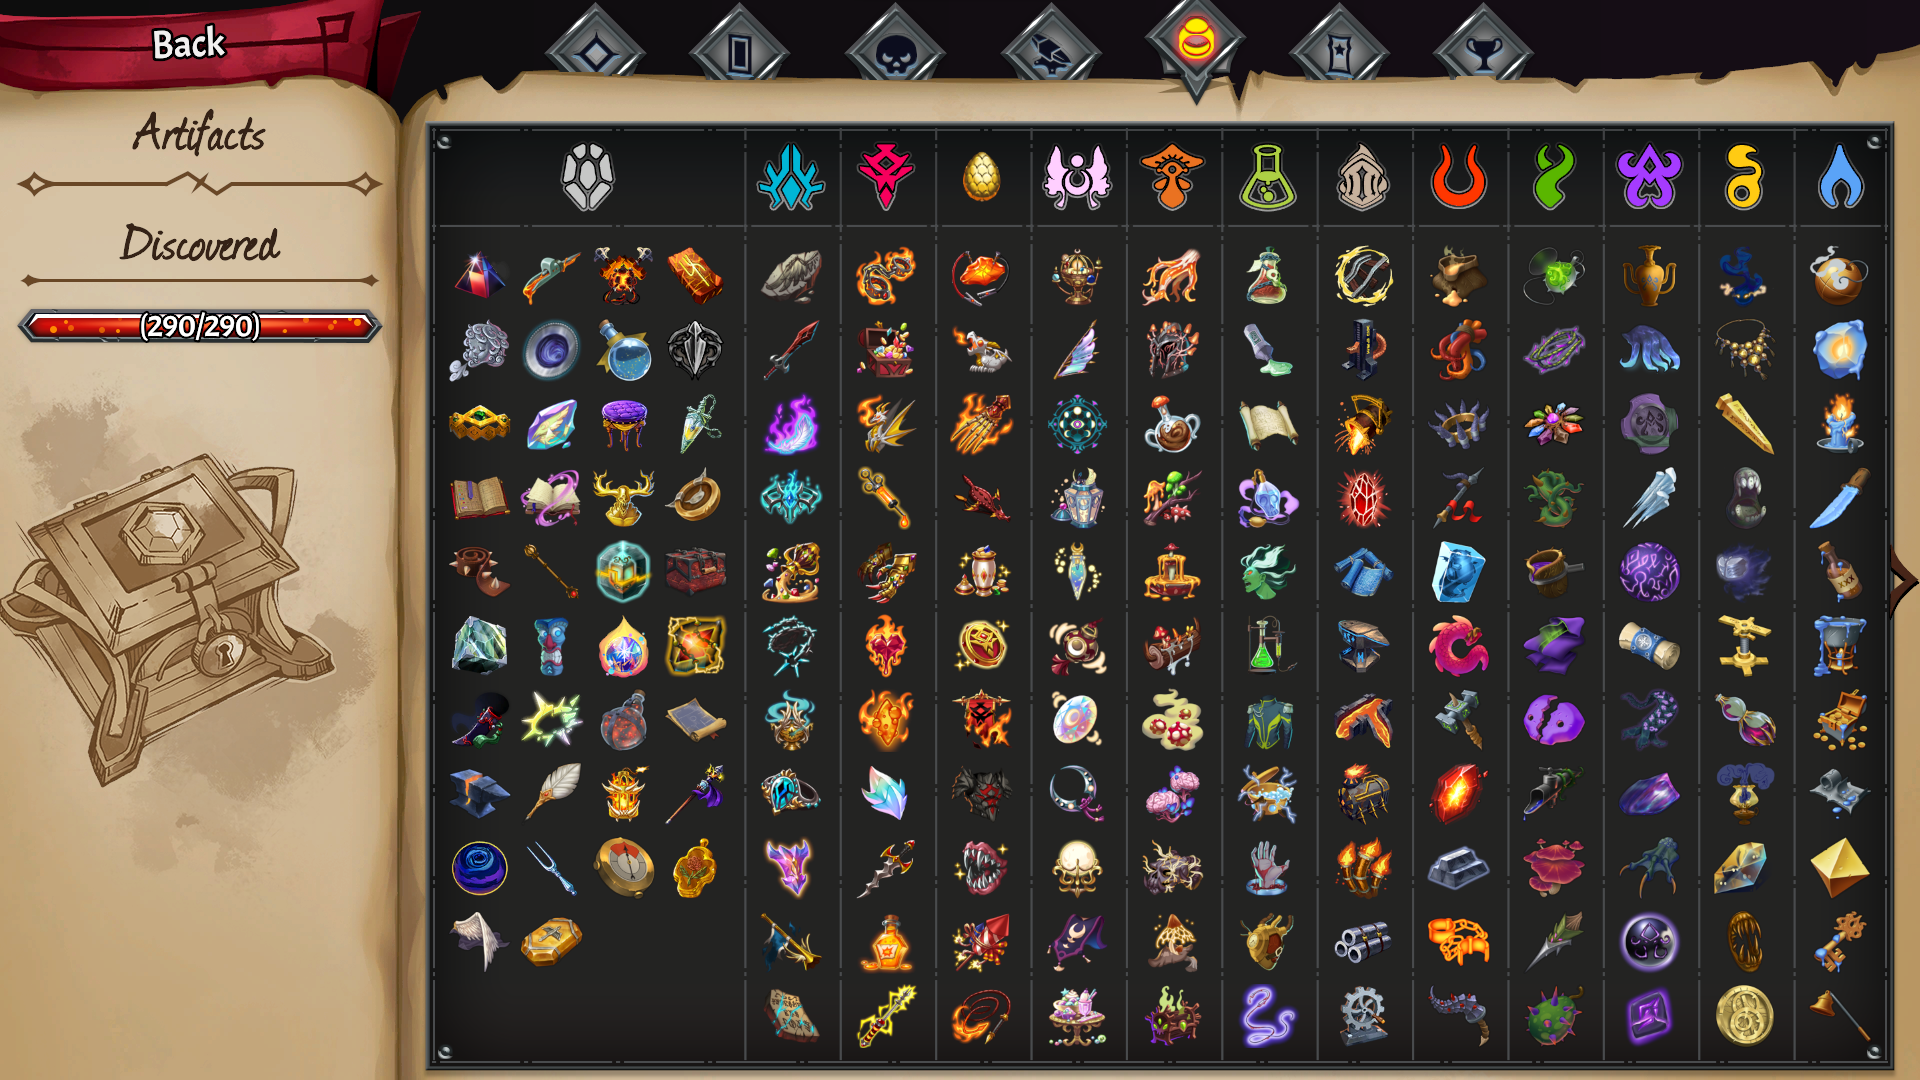
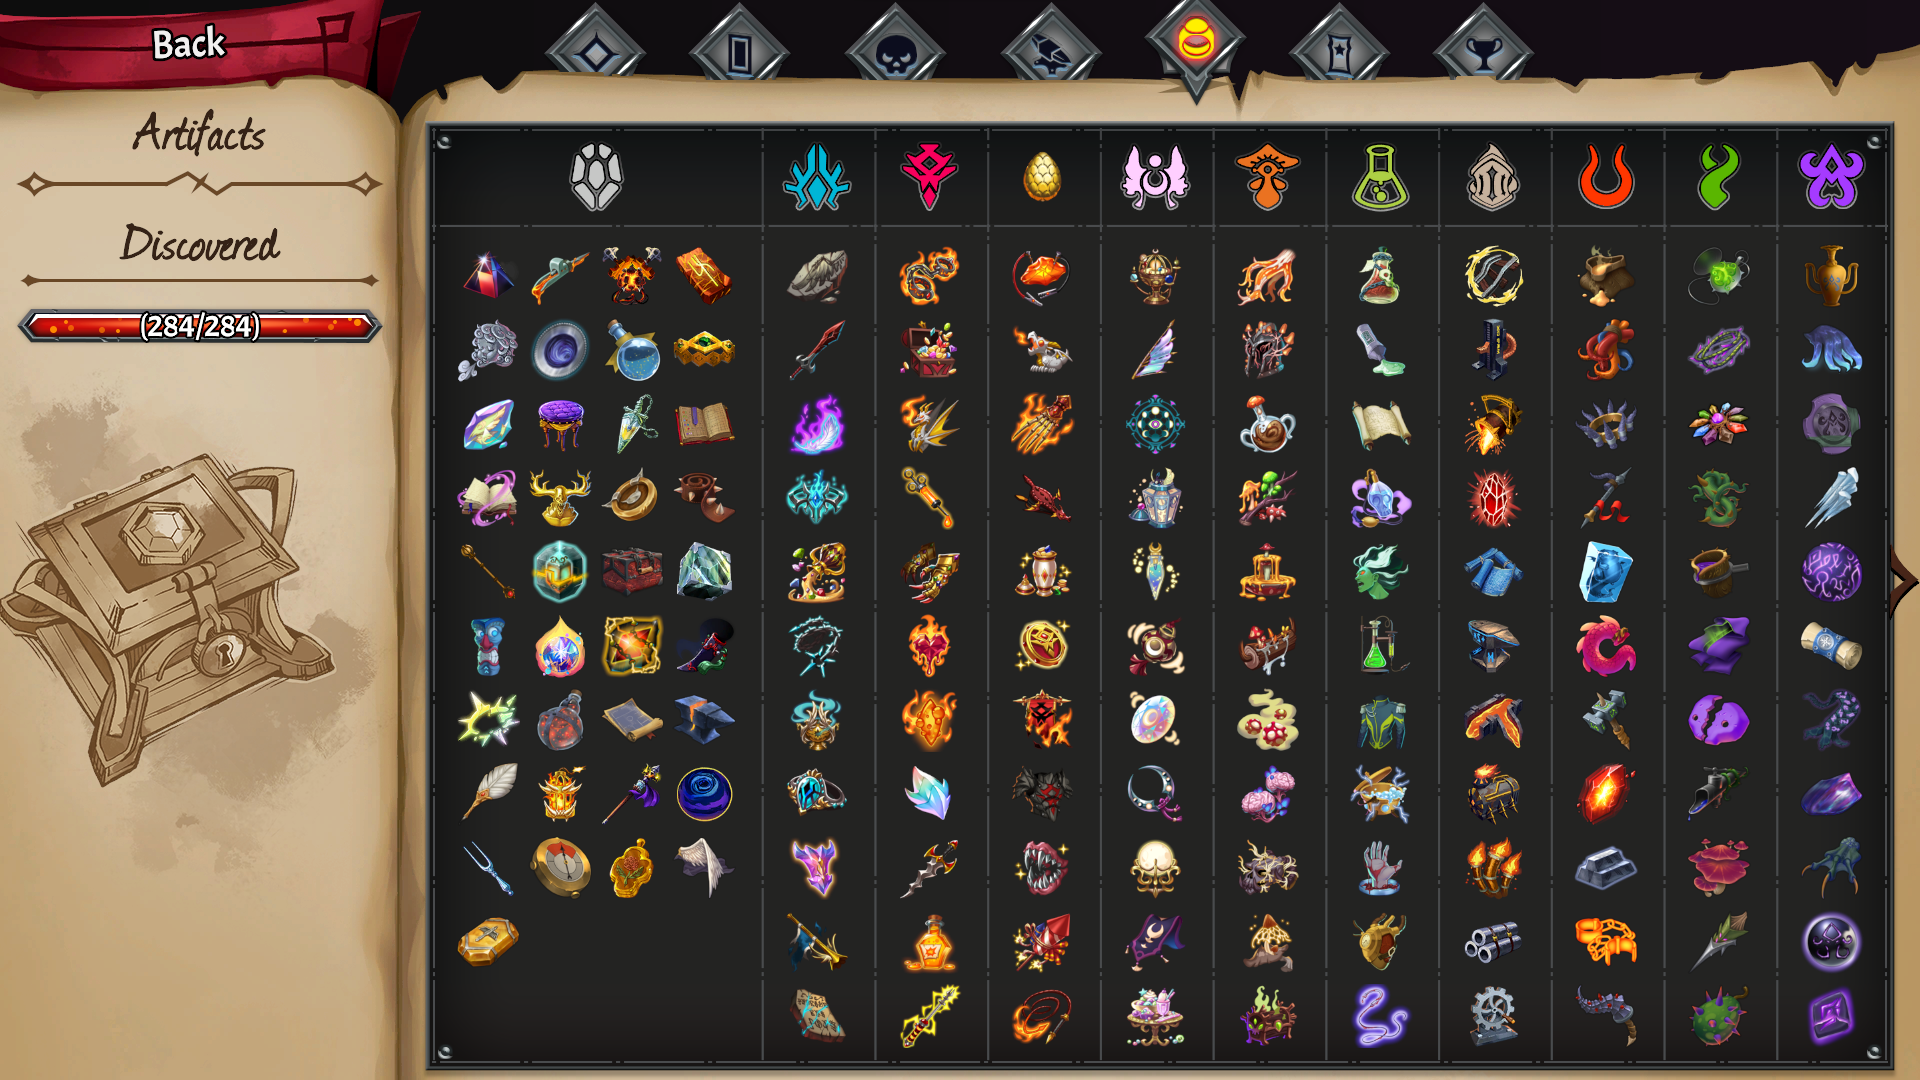
0.3.0: hoja de progreso, caja de busqueda, traza apagada por defecto

Changed region(s): [[0.2188, 0.1222, 0.9688, 0.9778], [0.0938, 0.275, 0.125, 0.3361]]

diff --git a/README.md b/README.md
@@ -3,9 +3,9 @@
 UI fixes for playing with **many clans** installed. It adds no content: no cards, no units,
 no clans. It patches base-game screens with Harmony.
 
-![The logbook's artifacts page with 21 clans installed](https://raw.githubusercontent.com/David-defrutos/mt2-custom-clan-ui-fixes/main/screenshots/logbook-artifacts-page1.png)
+![The logbook's artifacts page with 19 clans installed](https://raw.githubusercontent.com/David-defrutos/mt2-custom-clan-ui-fixes/main/screenshots/logbook-artifacts-page1.png)
 
-<sub>The artifacts page with 21 clans installed: 24 columns split into two pages of 12,
+<sub>The artifacts page with 19 clans installed: the clan columns split into two pages,
 turned with the game's own arrows. Without the mod the last ones are drawn past the right
 edge of the sheet.</sub>
 
@@ -13,10 +13,10 @@ edge of the sheet.</sub>
 
 ### The logbook's champion upgrade page
 
-![The logbook's champion upgrade page with 21 clans installed](https://raw.githubusercontent.com/David-defrutos/mt2-custom-clan-ui-fixes/main/screenshots/logbook-champion-upgrades.png)
+![The logbook's champion upgrade page with 19 clans installed](https://raw.githubusercontent.com/David-defrutos/mt2-custom-clan-ui-fixes/main/screenshots/logbook-champion-upgrades.png)
 
-<sub>21 clans in three columns of seven, all visible and clickable, with the page heading
-left alone.</sub>
+<sub>19 clans in three columns, all visible and clickable, with the page heading left
+alone.</sub>
 
 The **Light Forge Upgrades** page lays the clans out in two fixed columns (regular clans and
 crew clans) and **does not paginate**: with a dozen mods installed the column runs off the
@@ -52,6 +52,42 @@ take four times the width of a clan column.
 <sub>Page two, reached with the arrow on the right. Without the mod these columns are drawn
 past the edge of the sheet and cannot be reached at all.</sub>
 
+### The logbook's progress record
+
+![The logbook's progress record, page 3 of 5, with 19 clans installed](https://raw.githubusercontent.com/David-defrutos/mt2-custom-clan-ui-fixes/main/screenshots/logbook-progress-record.png)
+
+<sub>Page 3 of 5 with 19 clans: one clan per row, the ally banners at full size, and the same
+card mastery grid for every clan.</sub>
+
+The **Progress Record** page lays the clans out in a fixed grid of 2 x 5 and does not
+paginate either: from the eleventh clan on, the sections are drawn below the bottom edge of
+the sheet and cannot be seen at all. On top of that, each row of ally banners is only 354 px
+wide, so with a dozen allied clans the game squeezes the banners to half their width and
+they overlap.
+
+This mod puts one clan per row and pages the sheet with the game's own arrows, five clans
+per page; the "Page N of M" label counts those pages. With the full width of the sheet:
+
+- the ally banners keep their full size;
+- the clan's colour ribbon runs all the way to the card mastery meter;
+- the card mastery meter grows in columns instead of rows — a clan with more than 42 cards
+  used to spill out of its section — and every clan gets the same 12 x 5 grid, so the meters
+  line up.
+
+The DLC page (Railforged, Wurmkin) gets the same layout.
+
+### The card filter's search box
+
+![The card filters with the search box readable](https://raw.githubusercontent.com/David-defrutos/mt2-custom-clan-ui-fixes/main/screenshots/card-filter-search.png)
+
+<sub>The logbook's card filters with 19 clans: three rows of clan buttons, and a search box
+you can read.</sub>
+
+Once there are enough clans for a third row of clan buttons, the ornament that closes the
+bottom of the filter panel — a line with a diamond in the middle — is drawn right across the
+search box, over the text you type. This mod switches that ornament off, and only when it
+actually overlaps the box: with fewer clans the panel is left as the game draws it.
+
 ## Settings
 
 `BepInEx\config\mt2_custom_clan_ui_fixes.Plugin.cfg`, section `[LogbookFit]`:
@@ -80,15 +116,48 @@ Section `[ArtifactsPaging]`:
 | `Enabled` | `true` | set to `false` and the artifacts page is left exactly as the game draws it |
 | `ColumnsPerPage` | `0` | columns per page; 0 = as many as the measured width fits |
 | `WidthBudget` | `0` | usable sheet width in px; 0 = detect it. If the split comes out short or long, take the width from the `zona:` line in the log and set it here |
-| `RetryFrames` | `5` | frames the split is retried after the screen opens |
+| `Balance` | `true` | evenly filled pages (24 columns: 12 + 12) instead of filling the first one (17 + 7) |
+| `RetryFrames` | `10` | frames the split is retried after the screen opens |
 | `Verbose` | `false` | log what it measures and how it splits |
+
+Section `[ProgressGrid]`:
+
+| key | default | what it does |
+|---|---|---|
+| `Enabled` | `true` | set to `false` and the progress record is left exactly as the game draws it |
+| `Columns` | `1` | clan columns. 1 = one clan per row, which is what makes room for the banners; 2 = the game's own grid |
+| `RowsPerPage` | `0` | clans per page; 0 = as many as fit (5) |
+| `PlaqueWidth` | `280` | width of the portrait plaque in px; 0 = whatever is left |
+| `FlagOffsetX` | `-280` | px the ally banners are moved inside the section; negative = to the left |
+| `BalanceFlagRows` | `true` | splits the ally banners evenly between their two rows. It moves objects between parents, as the game itself does: if duplicated or unresponsive banners show up, set it to `false` |
+| `FixMasteryMeter` | `true` | the card mastery meter grows in columns instead of rows |
+| `MeterColumns` | `12` | meter columns, the same for every clan |
+| `MeterRows` | `5` | rows that fit; with 12 columns, room for 60 cards. If a clan does not fit, columns are added for every clan |
+| `Verbose` | `false` | log the grid, the paging and what it adjusts |
+
+The remaining keys (`Layout`, `WidenSections`, `FreeFlagWidth`, `FlagAlignLeft`,
+`FlagSpacing`, `StretchPlaqueFill`, `RibbonExtra`, `DetailSections`, `DumpTree`) are there
+for troubleshooting; their defaults are the values tuned in game.
+
+Section `[CardFilter]`:
+
+| key | default | what it does |
+|---|---|---|
+| `Enabled` | `true` | set to `false` and the filter panel is left exactly as the game draws it |
+| `MinOverlap` | `0.25` | how much of the search box's height something has to cover to count as the ornament. Raise it if anything else gets switched off |
+| `AlsoInside` | `false` | also look inside the search box itself. Off because the box's own frame and background live there |
+| `Levels` | `1` | how far up to look for the ornament; 1 = the Search section and its neighbours |
+| `Verbose` | `false` | log what it switched off |
+| `DumpTree` | `false` | dump the panel's hierarchy once, for troubleshooting |
 
 ## Relation to CustomClanHelper
 
 [Custom-Clan-Helper](https://github.com/Monster-Train-2-Modding-Group/Custom-Clan-Helper)
-fixes the logbook's **checklist** page and lists both of these in its TODO
-(*"Champion Upgrade Page in logbook is wonky"*, *"Artifact page needs pagination support"*).
-Both mods are compatible and deal with different screens.
+also works on the logbook: it lists the champion upgrade and artifacts pages in its TODO
+(*"Champion Upgrade Page in logbook is wonky"*, *"Artifact page needs pagination support"*),
+and it gives modded clans a progress record page of their own. The progress record layout of
+this mod was built and tested **without** Custom-Clan-Helper installed, so that extra page
+has not been checked with it yet. The other screens are unaffected.
 
 ## Building
 
@@ -141,6 +210,31 @@ Las paginas salen igual de llenas en vez de llenar la primera: con 24 columnas, 
 17 y 7. El equilibrio es por ancho y no por numero de columnas, porque la de artefactos
 genericos ocupa cuatro veces lo que una de clan.
 
+### La hoja de progreso del logbook
+
+La hoja **Progress Record** reparte los clanes en una rejilla fija de 2 x 5 y tampoco pagina:
+a partir del undecimo clan, las secciones se dibujan por debajo del borde de la hoja y no hay
+forma de verlas. Ademas, cada fila de banderas de aliados mide solo 354 px, asi que con una
+docena de clanes aliados el juego aplasta las banderas a la mitad y se solapan.
+
+Este mod pone un clan por fila y pagina la hoja con las flechas del propio juego, cinco
+clanes por pagina; el rotulo "Page N of M" cuenta esas paginas. Con todo el ancho de la hoja:
+
+- las banderas de aliados conservan su tamano;
+- la cinta de color del clan llega hasta el medidor de cartas;
+- el medidor de cartas dominadas crece en columnas y no en filas -un clan con mas de 42
+  cartas se salia de su seccion- y todos los clanes llevan la misma rejilla de 12 x 5, asi
+  que los medidores quedan alineados.
+
+La hoja de DLC (Railforged, Wurmkin) recibe el mismo formato.
+
+### La caja de busqueda del filtro de cartas
+
+En cuanto hay clanes para una tercera fila de botones de clan, el adorno que cierra el panel
+de filtros por abajo -una raya con un rombo en medio- se dibuja justo encima de la caja de
+busqueda, sobre el texto que escribes. Este mod apaga ese adorno, y solo cuando de verdad
+tapa la caja: con menos clanes el panel queda como lo pinta el juego.
+
 ## Ajustes
 
 `BepInEx\config\mt2_custom_clan_ui_fixes.Plugin.cfg`, seccion `[LogbookFit]`:
@@ -169,15 +263,48 @@ Seccion `[ArtifactsPaging]`:
 | `Enabled` | `true` | a `false` y la pagina de artefactos queda como la deja el juego |
 | `ColumnsPerPage` | `0` | columnas por pagina; 0 = las que quepan segun el ancho medido |
 | `WidthBudget` | `0` | ancho util de la hoja en px; 0 = detectarlo. Si el reparto se queda corto o largo, coge el ancho de la linea `zona:` del log y fijalo aqui |
-| `RetryFrames` | `5` | frames que se reintenta el reparto tras abrir la pantalla |
+| `Balance` | `true` | paginas igual de llenas (24 columnas: 12 + 12) en vez de llenar la primera (17 + 7) |
+| `RetryFrames` | `10` | frames que se reintenta el reparto tras abrir la pantalla |
 | `Verbose` | `false` | traza en `LogOutput.log` de lo que mide y de como reparte |
+
+Seccion `[ProgressGrid]`:
+
+| clave | por defecto | que hace |
+|---|---|---|
+| `Enabled` | `true` | a `false` y la hoja de progreso queda como la deja el juego |
+| `Columns` | `1` | columnas de clanes. 1 = un clan por fila, que es lo que deja sitio a las banderas; 2 = la rejilla del juego |
+| `RowsPerPage` | `0` | clanes por pagina; 0 = los que quepan (5) |
+| `PlaqueWidth` | `280` | ancho de la placa del retrato en px; 0 = lo que sobre |
+| `FlagOffsetX` | `-280` | px que se mueven las banderas de aliados dentro de la seccion; negativo = a la izquierda |
+| `BalanceFlagRows` | `true` | reparte las banderas de aliados a partes iguales entre sus dos filas. Mueve objetos de padre, como hace el propio juego: si aparecen banderas duplicadas o que no responden, ponlo a `false` |
+| `FixMasteryMeter` | `true` | el medidor de cartas dominadas crece en columnas y no en filas |
+| `MeterColumns` | `12` | columnas del medidor, las mismas para todos los clanes |
+| `MeterRows` | `5` | filas que caben; con 12 columnas, sitio para 60 cartas. Si un clan no cabe, se anaden columnas para todos |
+| `Verbose` | `false` | traza de la rejilla, el paginado y lo que ajusta |
+
+El resto de claves (`Layout`, `WidenSections`, `FreeFlagWidth`, `FlagAlignLeft`,
+`FlagSpacing`, `StretchPlaqueFill`, `RibbonExtra`, `DetailSections`, `DumpTree`) son para
+diagnosticar; sus valores por defecto son los ajustados en partida.
+
+Seccion `[CardFilter]`:
+
+| clave | por defecto | que hace |
+|---|---|---|
+| `Enabled` | `true` | a `false` y el panel de filtros queda como lo deja el juego |
+| `MinOverlap` | `0.25` | cuanto del alto de la caja de busqueda tiene que tapar algo para darlo por adorno. Subelo si se apaga algo mas |
+| `AlsoInside` | `false` | buscar tambien dentro de la propia caja. Apagado porque ahi viven su marco y su fondo |
+| `Levels` | `1` | hasta donde se sube a buscar el adorno; 1 = la seccion Search y sus vecinas |
+| `Verbose` | `false` | traza de lo que ha apagado |
+| `DumpTree` | `false` | vuelca una vez el arbol del panel, para diagnosticar |
 
 ## Relacion con CustomClanHelper
 
 [Custom-Clan-Helper](https://github.com/Monster-Train-2-Modding-Group/Custom-Clan-Helper)
-arregla la pagina del **checklist** del logbook, y tiene estas dos en su TODO
-(*"Champion Upgrade Page in logbook is wonky"*, *"Artifact page needs pagination support"*).
-Los dos mods son compatibles y se ocupan de pantallas distintas.
+tambien trabaja sobre el logbook: tiene las paginas de mejoras y de artefactos en su TODO
+(*"Champion Upgrade Page in logbook is wonky"*, *"Artifact page needs pagination support"*)
+y da a los clanes modeados una hoja de progreso propia. El formato de la hoja de progreso de
+este mod se hizo y se probo **sin** Custom-Clan-Helper instalado, asi que esa hoja extra aun
+no se ha comprobado con el. Las demas pantallas no se ven afectadas.
 
 ## Compilar
 
@@ -187,3 +314,4 @@ Ver `COMO-COMPILAR.md`. El DLL lo compila GitHub Actions con cada push que toque
 
 MIT.
 <!-- 2026-09-22-2327||claude-mt2-CustomClanUIFixes||plugins/frutos-CustomClanUIFixes/README.md||Verbose true->false en las cuatro tablas de ajustes (ingles y espanol, pagina de mejoras y de artefactos) -->
+<!-- 2026-09-23-0040||claude-mt2-CustomClanUIFixes||plugins/frutos-CustomClanUIFixes/README.md||0.3.0: secciones nuevas de la hoja de progreso y de la caja de busqueda (ingles y espanol) con sus dos capturas, tablas [ProgressGrid] y [CardFilter], [ArtifactsPaging] RetryFrames 5->10 y Balance anadido, pies de captura a 19 clanes, relacion con Custom-Clan-Helper reescrita -->

diff --git a/CHANGELOG.md b/CHANGELOG.md
@@ -1,5 +1,24 @@
 # Changelog
 
+## v0.3.0
+
+- **Logbook, Progress Record page**: one clan per row, paginated with the game's own arrows
+  (five clans a page), so the clans past the tenth can be seen at all — before, they were
+  drawn below the bottom edge of the sheet. The "Page N of M" label counts those pages.
+- The ally banners keep their full size instead of being squeezed until they overlap, and
+  the clan's colour ribbon runs all the way to the card mastery meter.
+- The card mastery meter grows in columns instead of spilling out of its section when a
+  clan has more than 42 cards, and every clan gets the same 12 x 5 grid so the meters line up.
+- The DLC page (Railforged, Wurmkin) gets the same layout.
+- **Logbook, card filters**: once there are enough clans for a third row of clan buttons,
+  the ornament that closes the bottom of the filter panel was drawn right across the search
+  box, over the text you type. It is now switched off, and only when it actually overlaps.
+- New `[ProgressGrid]` and `[CardFilter]` sections in the config file, each with
+  `Enabled = false` to leave the screen exactly as the game draws it.
+- Logging is now **off by default** in every section (`Verbose = false`). A config file from
+  an earlier version keeps the value it already had: set `Verbose = false` by hand in
+  `[LogbookFit]` and `[ArtifactsPaging]` if you want a quiet log.
+
 ## v0.2.1
 
 - Store page only: screenshots of the artifacts page and of its second page, the champion
@@ -29,3 +48,4 @@
   that is 3 columns of 6 at 91% of the original size.
 - Everything is configurable in `BepInEx\config\mt2_custom_clan_ui_fixes.Plugin.cfg`, and
   `Enabled = false` leaves the screen exactly as the game draws it.
+<!-- 2026-09-23-0040||claude-mt2-CustomClanUIFixes||plugins/frutos-CustomClanUIFixes/CHANGELOG.md||entrada v0.3.0: hoja de progreso, caja de busqueda del filtro, secciones [ProgressGrid] y [CardFilter], traza apagada por defecto -->
